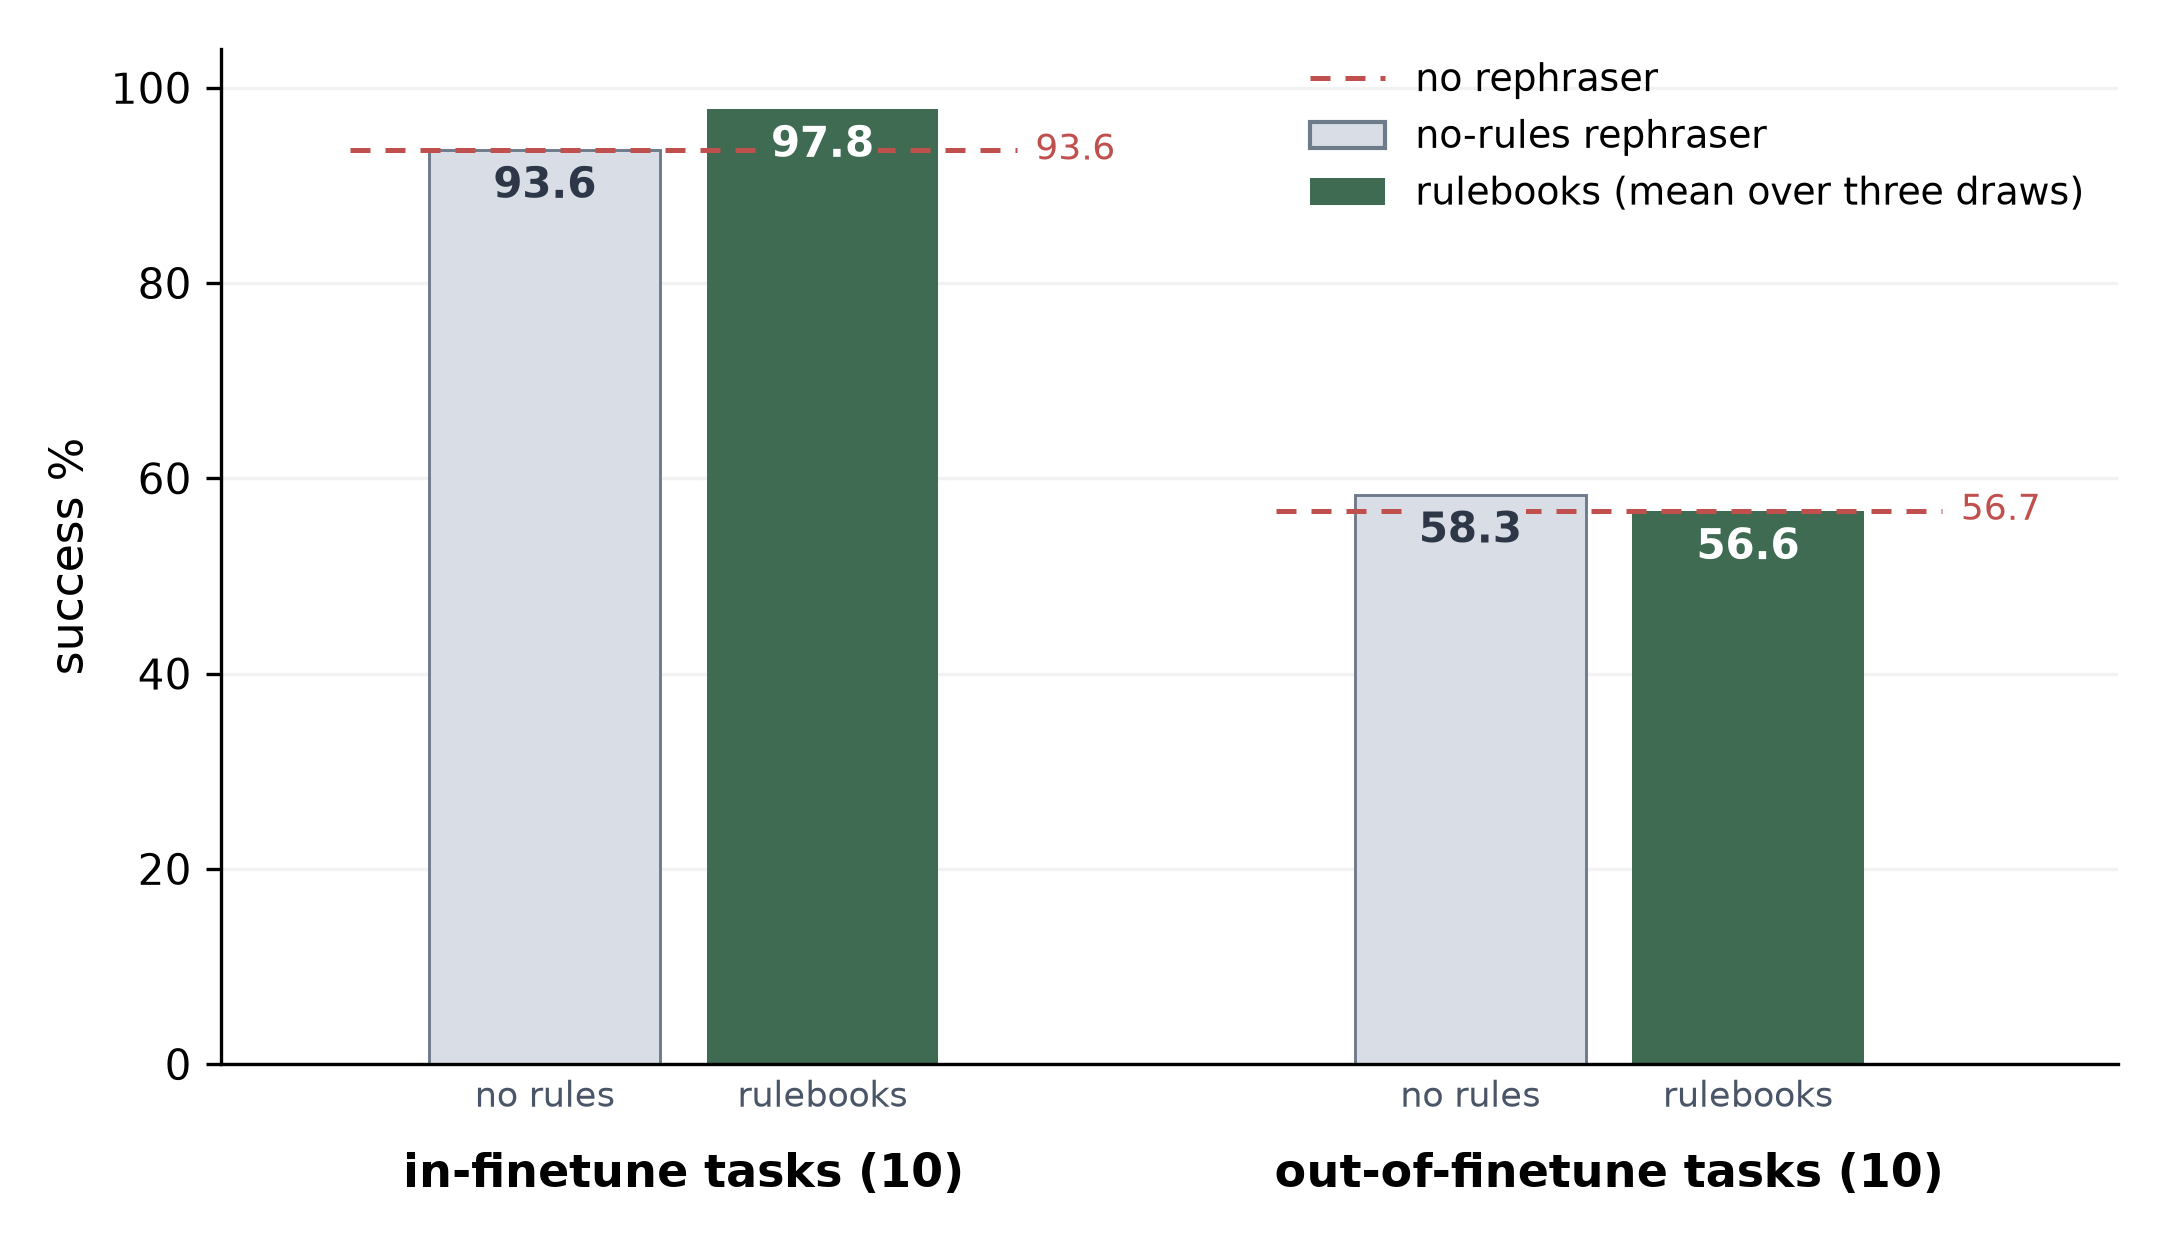
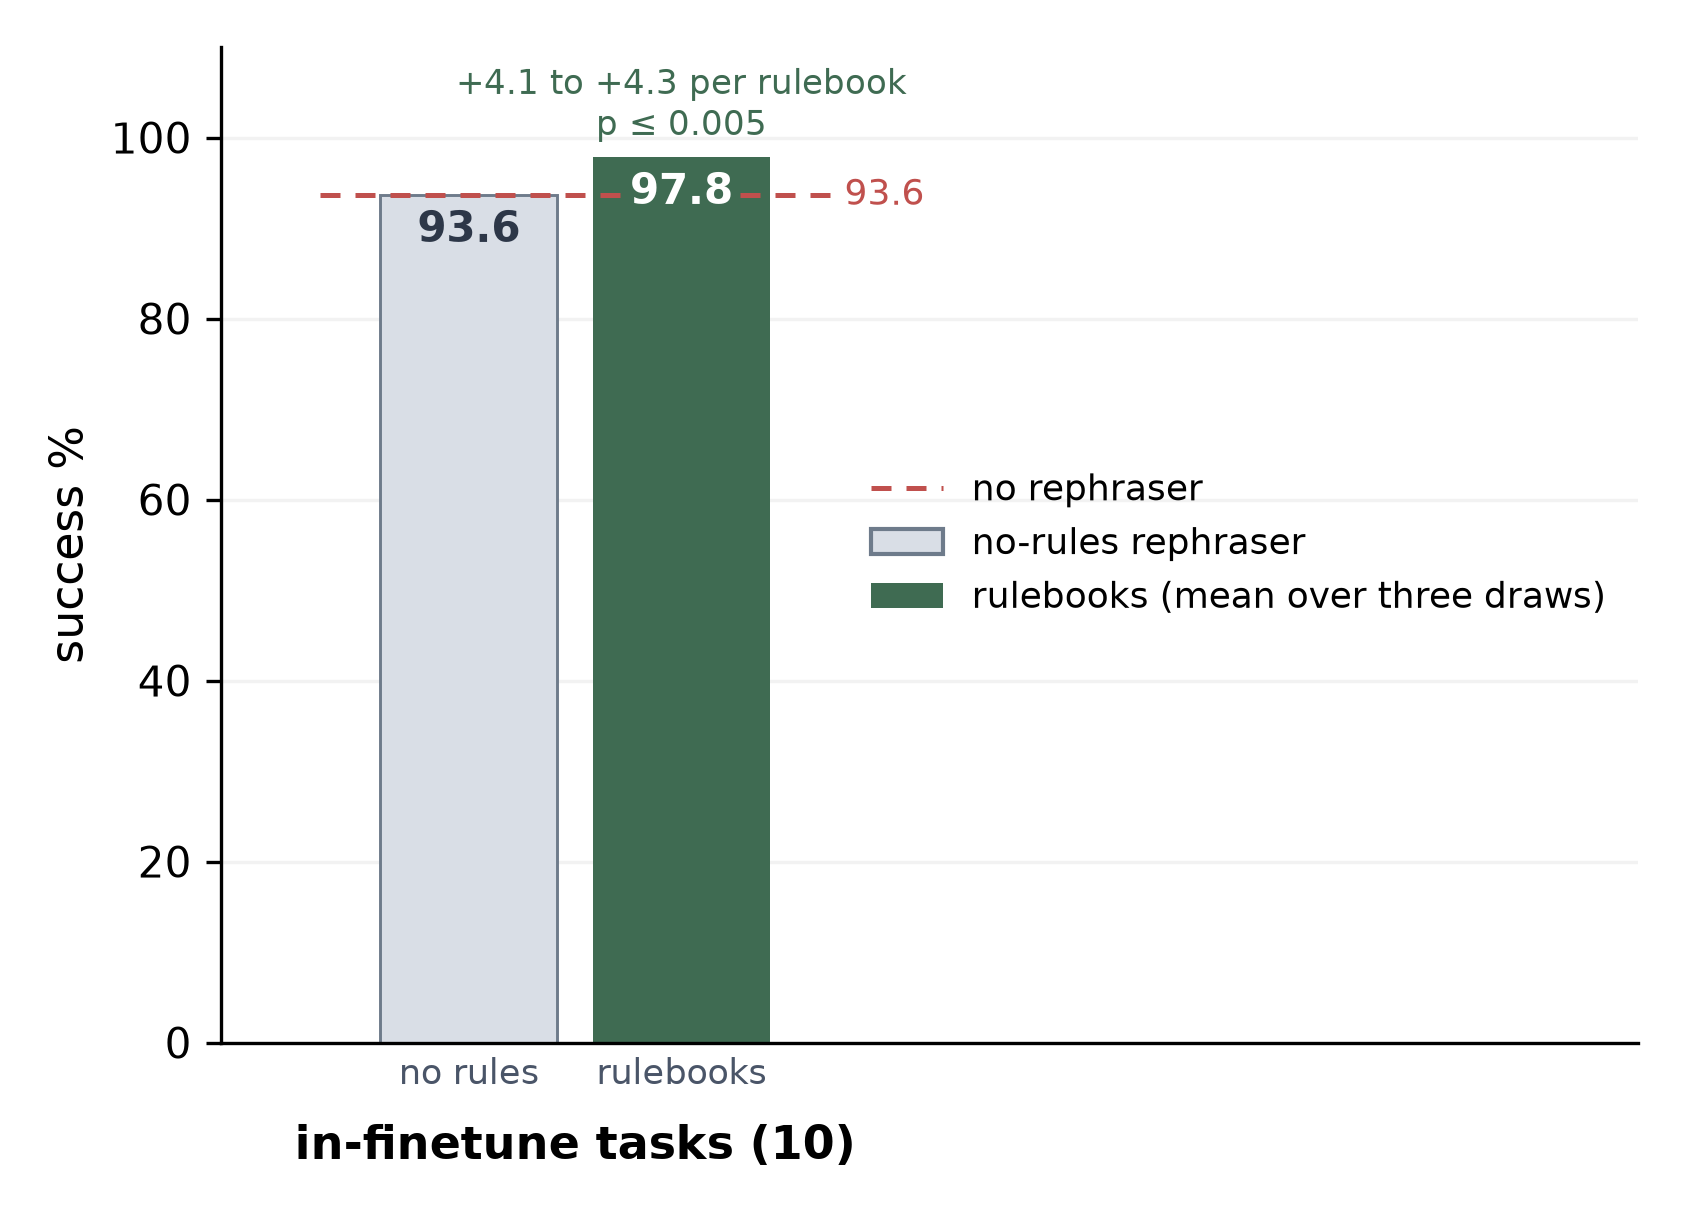
LIBERO: chart the in-finetune half only, significance in caption; conclusions: swings concentrate in the finetune set

diff --git a/index.html b/index.html
@@ -147,15 +147,16 @@
 <p class="cap">Four charts, one per instruction group; within each, one bar group per applier. Dashed red line: the unmodified robot. Grey bar: the applier with no rules. Green bars: the out-of-finetune, both, and in-finetune rulebooks, each averaged over three draws. Thin bars to either side: in-distribution (left, 5 tasks) and out-of-distribution (right, 7). The canonical chart has one instruction per task, so it is noisy and should be read with caution.</p>
 
 <h3>The same method on &pi;<sub>0.5</sub> and LIBERO</h3>
-<p>To check that this is not a one-model result, we repeated the whole pipeline on &pi;<sub>0.5</sub> and LIBERO: a fresh sealed set of 20 tasks, 10 that the model was trained on and 10 it was not, with 10 natural rephrasings per task written by Gemini, evidence from single-edit pairs on other tasks only, Gemini as the applier, and three independently distilled rulebooks. On the trained tasks the rulebooks lift success from 93.6% to 97.8%, and all three land on the same two fixes: write &ldquo;stove&rdquo; instead of &ldquo;hot plate&rdquo; or &ldquo;burner&rdquo;, and &ldquo;plate&rdquo; instead of &ldquo;dish&rdquo;. On the other tasks nothing changes, which matches the oracle chart above: on tasks it was not trained on, &pi;<sub>0.5</sub> barely reacts to the wording.</p>
+<p>To check that this is not a one-model result, we repeated the whole pipeline on &pi;<sub>0.5</sub> and LIBERO: a fresh sealed set of 20 tasks, 10 that the model was trained on and 10 it was not, with 10 natural rephrasings per task written by Gemini, evidence from single-edit pairs on other tasks only, Gemini as the applier, and three independently distilled rulebooks. On the trained tasks the rulebooks lift success from 93.6% to 97.8%, and all three land on the same two fixes: write &ldquo;stove&rdquo; instead of &ldquo;hot plate&rdquo; or &ldquo;burner&rdquo;, and &ldquo;plate&rdquo; instead of &ldquo;dish&rdquo;. On the 10 tasks it was not trained on, none of the three rulebooks changes success measurably (&minus;0.5 to +0.3 points, p &ge; 0.47), which matches the oracle chart above: on tasks it was not trained on, &pi;<sub>0.5</sub> barely reacts to the wording.</p>
 <img src="assets/site_pi05_replication.png" alt="pi0.5 on LIBERO: no rephraser, no-rules applier, and rulebooks">
-<p class="cap">&pi;<sub>0.5</sub> on the 20 sealed LIBERO tasks: 200 natural rephrasings written by a vision-language model (Gemini, gemini-pro-latest), 50 scenes each, Gemini as the applier. Dashed red: the unmodified robot. Grey: the applier with no rules. Green: the rulebooks, averaged over three draws. The gain on trained tasks is statistically significant; on the other tasks the rulebooks make no measurable difference, and the no-rules applier gains 1.6 points.</p>
+<p class="cap">&pi;<sub>0.5</sub> on the 10 sealed LIBERO tasks inside its training set: 100 natural rephrasings written by a vision-language model (Gemini, gemini-pro-latest), 50 scenes each, Gemini as the applier. Dashed red: the unmodified robot. Grey: the applier with no rules. Green: the rulebooks, averaged over three draws. Each of the three rulebooks gains 4.1 to 4.3 points (p &le; 0.005, paired permutation test over the 100 base instructions); the no-rules applier gains 0.1 (p = 0.87). The 10 out-of-finetune tasks are not charted: there the rulebooks differ from the unmodified robot by &minus;0.5 to +0.3 points (p &ge; 0.47) and the no-rules applier gains 1.6 (p = 0.006).</p>
 
 <h3>Conclusions</h3>
 <ul>
   <li>VLAs are very sensitive to wording, and the sensitivity is systematic. On &pi;<sub>0</sub> the best wording nearly closes the 21-point gap between in-distribution and out-of-distribution tasks, so much of the apparent generalization gap is a wording gap.</li>
   <li>It can be reduced without touching the robot&rsquo;s model. Evidence from a few training tasks, distilled by a language model into 10 to 20 explicit rules, improves a frozen &pi;<sub>0</sub> by 16 to 27% relative on held-out tasks, with the gains concentrated out-of-distribution.</li>
   <li>The method is cheap and general: one rewrite per instruction, no retraining, no checking during the motion, transfer to unseen tasks, and a replication on &pi;<sub>0.5</sub> and LIBERO.</li>
+  <li>The sensitivity looks like a product of finetuning. On LIBERO, swings were far easier to find on tasks &pi;<sub>0.5</sub> was finetuned on: 44% of the candidate pairs we tested there showed a significant swing, against 5% on the other tasks. Our hypothesis is that finetuning makes the model latch onto the exact wordings it was trained on, so one changed word can break the match.</li>
 </ul>
 
 <h3>Citation</h3>
